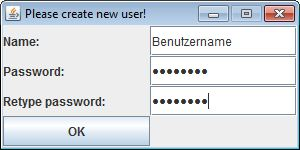
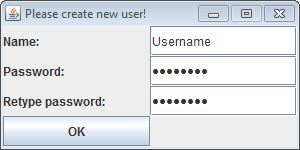
GUI description finished. Standard Username in CreateAccountWindow.

Changed region(s): [[0.0, 0.0, 1.0, 1.0], [0.51, 0.24, 0.78, 0.32], [0.69, 0.6133, 0.72, 0.72]]

diff --git a/doc/LaTeX/IS_Projekt.tex b/doc/LaTeX/IS_Projekt.tex
@@ -580,8 +580,7 @@ $\;$\\
 	\captionof{figure}{\small Account erstellen}
 	\label{Create}
 \end{minipage}
-\\\\Durch betätigen der Create-Auswahl im Login-Fenster öffnet sich ein weiteres PopUp, in dem ein Benutzer angelegt werden kann.
-
+\\\\Durch betätigen der Create-Auswahl im Login-Fenster öffnet sich ein weiteres PopUp, in dem ein Benutzer angelegt werden kann. Hierfür ist ein eindeutiger Benutzername, ein Passwort und eine Bestätigung des Passwortes notwendig. Entsprechen alle eingegebenen Daten den Anforderungen, wird nach Bestätigung mit OK ein neuer Benutzer erzeugt. Anschließend kann mit diesen Daten der Login im Login-Fenster erfolgen.
 
 \textbf{Hauptfenster}
 \vspace{1em}
@@ -592,7 +591,7 @@ $\;$\\
 	\captionof{figure}{\small Hauptfenster}
 	\label{Main}
 \end{minipage}
-\vspace{1em}
+\\\\Das Hauptfenster zeigt in einer Tabelle die aktuell verfügbaren Daten mit dem Originalnamen, dem zugehörigen verschlüsselten Dateinamen und dem Zeitpunkt des Hochladevorgangs. In der oberen Menüleiste kann das zusätzliche DropDown-Menü File und Help ausgewählt werden. Durch Auswählen einer Zeile mit der linken und Betätigen der rechten Maustaste wird ein Kontextmenü mit Möglichkeiten für diese Zeite/Datei angezeigt.
 
 \textbf{File Menü}
 \vspace{1em}
@@ -603,7 +602,7 @@ $\;$\\
 	\captionof{figure}{\small File Menü}
 	\label{File}
 \end{minipage}
-\vspace{1em}
+\\\\Der Reiter File in der oberen Menüleiste beinhaltet die Auswahlmöglichkeiten Select und Close. Durch Select kann eine lokale Datei zum Verschlüsseln und Upload in die Cloud ausgewählt werden. Close schließt die Anwendung. Die Anzeige der Möglichkeiten kann durch einen Klick auf eine freie Fläche innerhalb der Anwendung oder einen beliebigen Klick in die Oberfläche des Betriebssystems geschlossen werden.
 
 \textbf{Dateiauswahl}
 \vspace{1em}
@@ -614,7 +613,7 @@ $\;$\\
 	\captionof{figure}{\small Dateiauswahl}
 	\label{Select}
 \end{minipage}
-\vspace{1em}
+\\\\In der Dateiauswahl Select wird die lokale Ordnerstruktur des Betriebssystems angezeigt. In dieser kann sich der Benutzer frei bewegen und in das Quellverzeichnis von Dateien wechseln. Das Auswählen einer Datei und die Bestätigung mit Öffnen initialisiert den, für den Anwender nicht ersichtlichen, Verschlüsselungsvorgang und Dateiupload. Das Auswahlfenster wird beendet. Wurde die Datei korrekt verschlüsselt und in die Cloud geladen, wird diese im Hauptfenster mit ihren Merkmalen aufgelistet. Bei großen Dateien kann dieser Vorgang eine längere Zeitdauer in Anspruch nehmen. Schließt der Benutzer die gesamte Anwendung vor Auflistung in der Dateiübersicht, so wird diese weiterhin durch Hintergrundprozesse verschlüsselt bzw. hochgeladen. Durch Abbrechen kann das Auswahlfenster für Dateien geschlossen werden.
 
 \textbf{Help Menü}
 \vspace{1em}
@@ -625,7 +624,7 @@ $\;$\\
 	\captionof{figure}{\small Help Menü}
 	\label{Help}
 \end{minipage}
-\vspace{1em}
+\\\\Der Reiter Help in der oberen Menüleiste beinhaltet die Auswahlmöglichkeiten Help und About. Die Auswahl Help öffnet ein zustäzliches Fenster mit Hilfestellungen zur Verwendung, About ein weiteres mit Informationen zu der Software. Die Anzeige der Möglichkeiten kann durch einen Klick auf eine freie Fläche innerhalb der Anwendung oder einen beliebigen Klick in die Oberfläche des Betriebssystems geschlossen werden.
 
 \textbf{Help Fenster}
 \vspace{1em}
@@ -636,7 +635,7 @@ $\;$\\
 	\captionof{figure}{\small Help Fenster}
 	\label{HelpPopUp}
 \end{minipage}
-\vspace{1em}
+\\\\Das Help Fenster beschreibt alle Funktionalitäten der Software sowie deren Aufrufe. Mit der Bestätigung durch OK wird dieses  geschlossen.
 
 \textbf{About Fenster}
 \vspace{1em}
@@ -647,7 +646,7 @@ $\;$\\
 	\captionof{figure}{\small About Fenster}
 	\label{AboutPopUp}
 \end{minipage}
-\vspace{1em}
+\\\\Das About Fenster gibt Informationen über die Version, Entwickler, den Hintergrund der Entwicklung und Einsatz von Drittanbieter-Software wieder. Durch OK wird geschlossen.
 
 \textbf{Kontextmenü}
 \vspace{1em}
@@ -658,7 +657,7 @@ $\;$\\
 	\captionof{figure}{\small Kontextmenü}
 	\label{Kontext}
 \end{minipage}
-\vspace{1em}
+\\\\Das Kontextmenü wird durch Auswahl einer Zeile und Betätigen der rechten Maustaste ausgeführt. Es beinhaltet die Möglichkeiten Download und Delete from Cloud. Download initialisiert das temporäre Herunterladen der ausgewählten Datei mit anschließender Entschlüsselung und entschlüsselter Ablage in HOME/SecuCloud/\textless Benutzername\textgreater/download. Mit Delete from Cloud kann eine Datei aus der Cloud zusammen mit dem zugehörigem lokal gespeicherten Schlüssel gelöscht werden. Der Eintrag wird anschließend aus der Dateiübersicht entfernt. Das Kontextmenü kann durch einen Klick auf eine freie Fläche innerhalb der Anwendung oder einen beliebigen Klick in die Oberfläche des Betriebssystems geschlossen werden.
 
 \textbf{Synchronisierungsstatus}
 \vspace{1em}
@@ -669,8 +668,7 @@ $\;$\\
 	\captionof{figure}{\small Synchronisierungsstatus}
 	\label{Synchron}
 \end{minipage}
-\vspace{1em}
-
+\\\\Das Fenster über den Synchronisierungsstatus kann vom Anwender selbst nicht geöffnet werden. Es erscheint beim Start der Software nur dann, wenn ein lokaler Eintrag einer Datei (mit zugehörigem für den Benutzer nicht ersichtlichen Schlüssel) existiert, diese sich aber nicht mehr in der Cloud befindet. Beispiel für das Hervorrufen eines solchen Ereignisses ist das manuelle Löschen von Dateien in der Cloud-Umgebung. Durch Yes wird der Eintrag in der Dateiübersicht und und Datenverwaltung der Software gelöscht. Ein Betätigen von No beendet das Fenster bis zum nächsten Start der Software ohne Ausführen von Aktionen.
 \pagebreak
 
 % ----------------------------------------------------------------------------------------------------------

diff --git a/src/SecuCloud/src/view/CreateAccountWindow.java b/src/SecuCloud/src/view/CreateAccountWindow.java
@@ -114,9 +114,9 @@ public class CreateAccountWindow extends javax.swing.JFrame {
 
 		this.add(okButton);
 
-		nameTextField.setText("fenix");
-		firstPasswordTextField.setText("183461");
-		secondPasswordTextField.setText("183461");
+		nameTextField.setText("Username");
+		firstPasswordTextField.setText("Password");
+		secondPasswordTextField.setText("Password");
 
 		this.pack();
 	}
